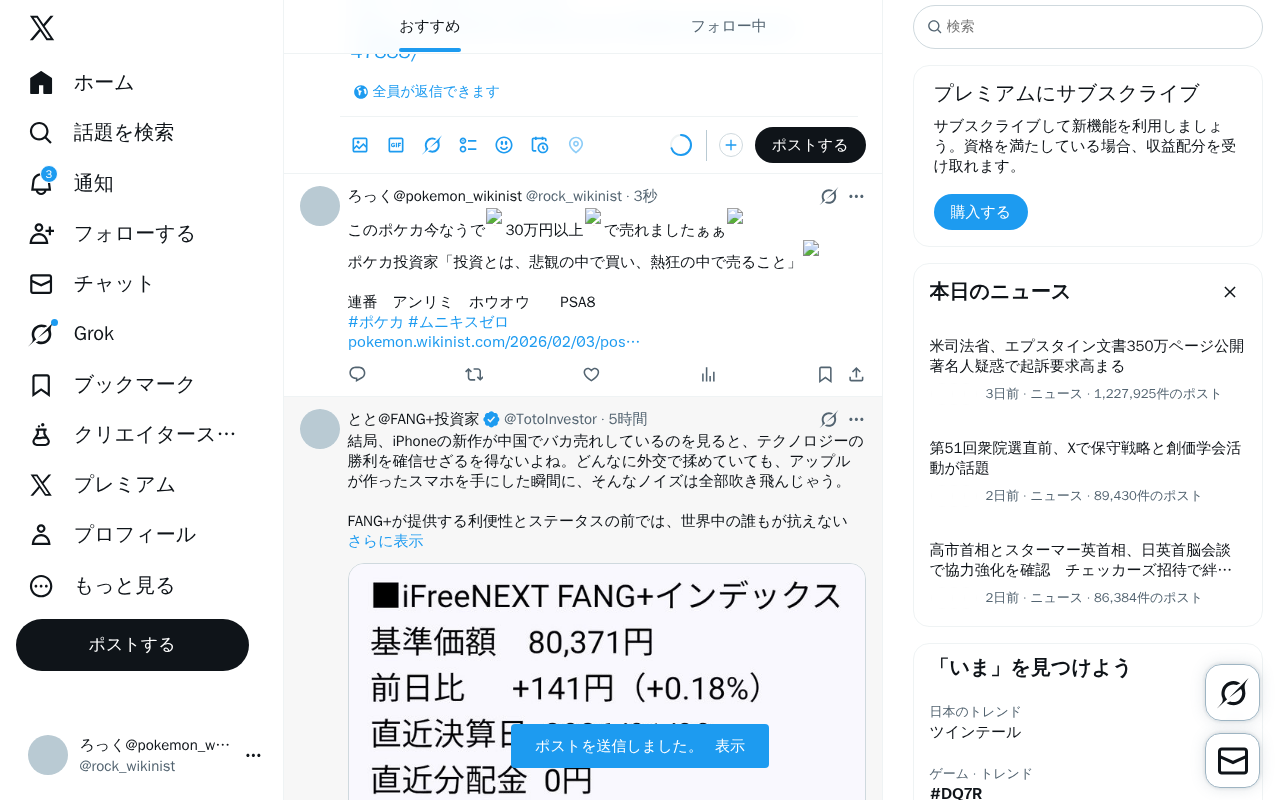
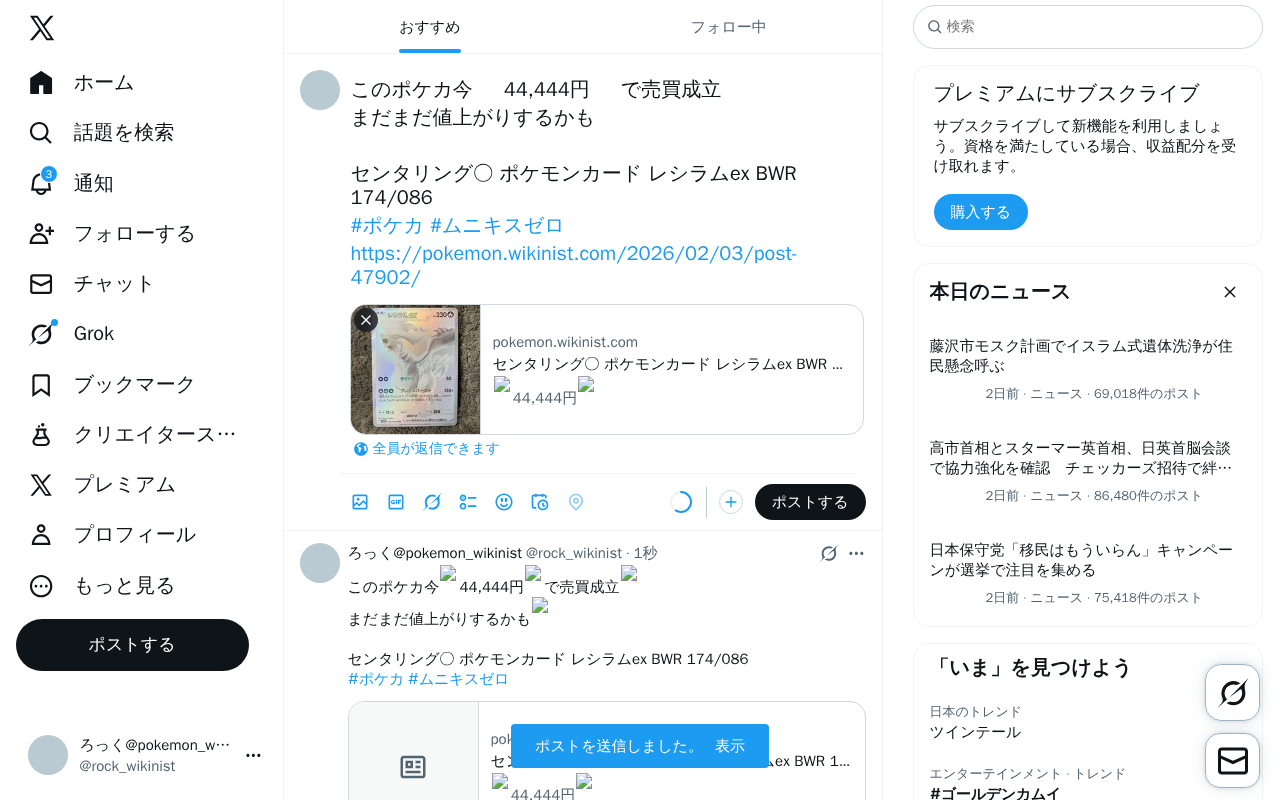
update system data

diff --git a/content/posts/test-pokemon-20260203-011151.md b/content/posts/test-pokemon-20260203-011151.md
@@ -1,0 +1,37 @@
+---
+title: "センタリング○ ポケモンカード レシラムex BWR 174/086"
+date: 2026-02-03T01:11:51+09:00
+description: "🔥44,444円🔥 メルカリで「センタリング○ ポケモンカード レシラムex BWR 174/086」が販売中！"
+amazon_url: "https://jp.mercari.com/item/m17526222359?afid=1391290753"
+categories: ["ポケモン"]
+tags: ["3万円以上"]
+cover:
+  image: "https://static.mercdn.net/thumb/item/webp/m17526222359_1.jpg?1770047953"
+  hiddenInList: true
+  hiddenInSingle: true
+---
+
+<div class="image-and-buttons">
+    <div class="image-area" style="margin-bottom: 20px; text-align: center;">
+        <a href="https://jp.mercari.com/item/m17526222359?afid=1391290753" target="_blank" rel="nofollow sponsored noopener noreferrer">
+            <img src="https://static.mercdn.net/thumb/item/webp/m17526222359_1.jpg?1770047953" alt="44,444" style="max-width: 100%; border-radius: 8px; border: 1px solid #ddd;" />
+        </a>
+        <br><span style="font-size:1.5em;color:red;font-weight:bold;">🔥44,444円🔥</span>
+    </div>
+    <div class="link-buttons">
+        <a href="https://jp.mercari.com/item/m17526222359?afid=1391290753" target="_blank" rel="nofollow sponsored noopener noreferrer">
+            💎 商品状態を見る
+        </a>
+        <a href="https://jp.mercari.com/search?afid=1391290753&category_id=1289&keyword=%E3%82%BB%E3%83%B3%E3%82%BF%E3%83%AA%E3%83%B3%E3%82%B0%E2%97%8B%20%E3%83%9D%E3%82%B1%E3%83%A2%E3%83%B3%E3%82%AB%E3%83%BC%E3%83%89%20%E3%83%AC%E3%82%B7%E3%83%A9%E3%83%A0ex%20BWR%20174%2F086" target="_blank" rel="nofollow sponsored noopener noreferrer">
+            🔍 類似商品を見る
+        </a>
+        <a href="https://jp.mercari.com/search?afid=1391290753&brand_id=&category_id=1289&color_id=&item_condition_id=&item_types=&keyword=%E3%82%BB%E3%83%B3%E3%82%BF%E3%83%AA%E3%83%B3%E3%82%B0%E2%97%8B%20%E3%83%9D%E3%82%B1%E3%83%A2%E3%83%B3%E3%82%AB%E3%83%BC%E3%83%89%20%E3%83%AC%E3%82%B7%E3%83%A9%E3%83%A0ex%20BWR%20174%2F086&order=desc&shipping_method=&shipping_payer_id=&size_id=&sort=created_time&status=sold_out%2Ctrading" target="_blank" rel="nofollow sponsored noopener noreferrer">
+            📈 価格推移・履歴を見る
+        </a>
+    </div>
+</div>
+
+<p style="font-size:1.0em;color:#555;line-height:1.6;">
+「センタリング○ ポケモンカード レシラムex BWR 174/086」はメルカリに出品されました！<br>
+最新のポケモン情報は当サイトで随時更新中です。
+</p>
